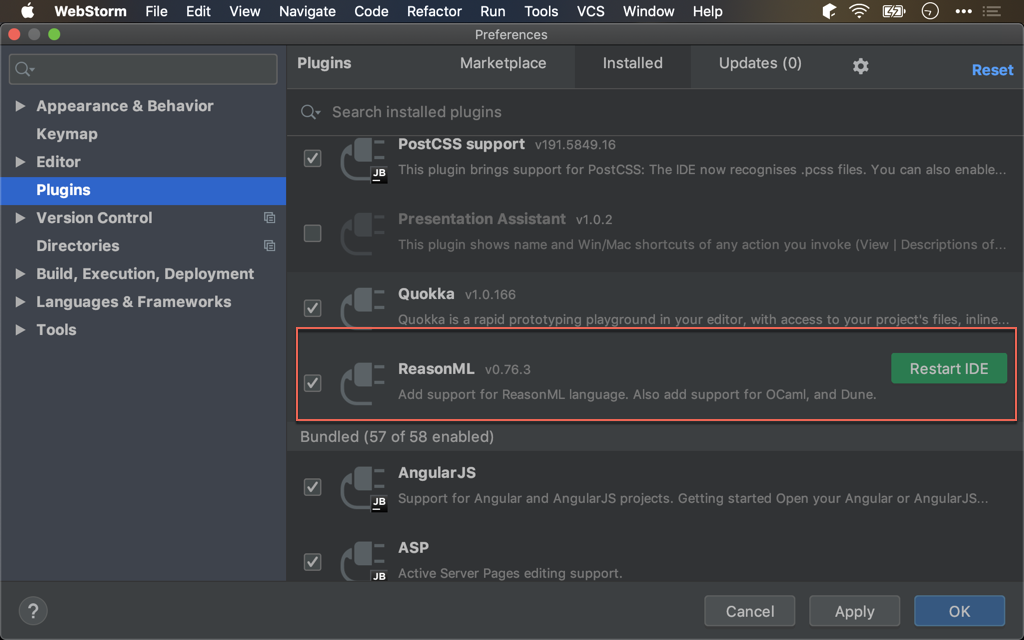
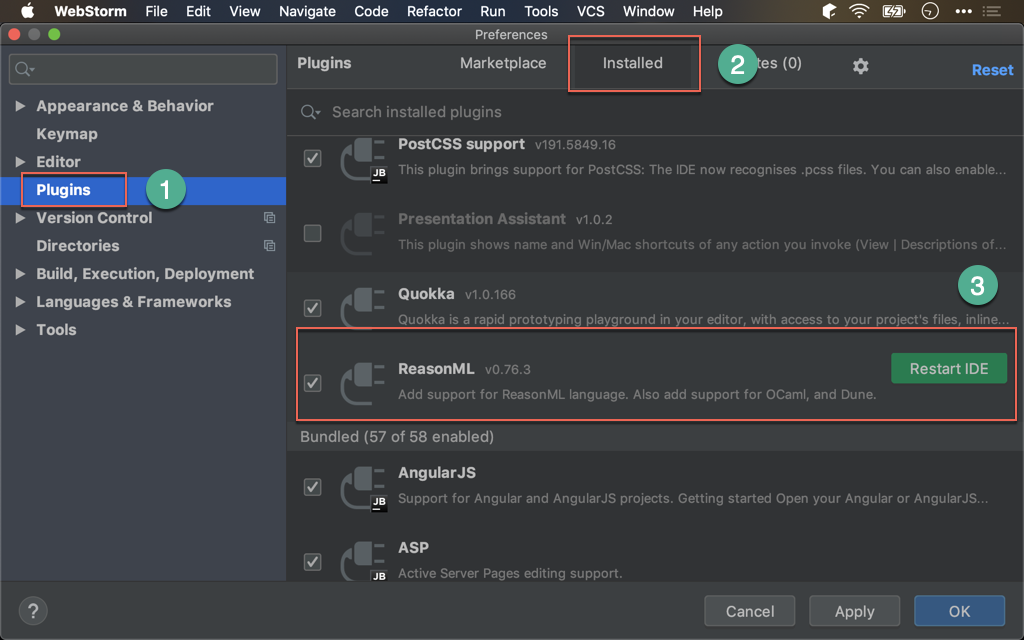
如何在 WebStorm 顯示 Shortcut ?

diff --git a/source/_posts/reasonml/webstorm.md b/source/_posts/reasonml/webstorm.md
@@ -11,6 +11,7 @@ date: 2019-05-26 20:06:55
 
 ## Version
 
+macOS Mojave 10.14.5
 WebStorm 2019.1.2
 ReasonML 0.76.3
 
@@ -36,7 +37,9 @@ ReasonML plugin 在 marketplace 找不到，只能從 [ReasonML plugin](https://
 
 ![ws003](/images/reasonml/webstorm/ws003.png)
 
-安裝完在 `Installed` 下有 `ReasonML` plugin。
+***WebStorm -> Preferences -> Plugins -> Installed***
+
+安裝完在 `Installed` 下會看到 `ReasonML` plugin。
 
 ## Conclusion
 

diff --git a/source/_posts/reasonml/hello-world.md b/source/_posts/reasonml/hello-world.md
@@ -10,6 +10,7 @@ date: 2019-05-26 18:18:13
 
 ## Version
 
+macOS Mojave 10.14.5
 Node 10.15.3
 Yarn 1.15.2
 ReasonML 3.0.4
